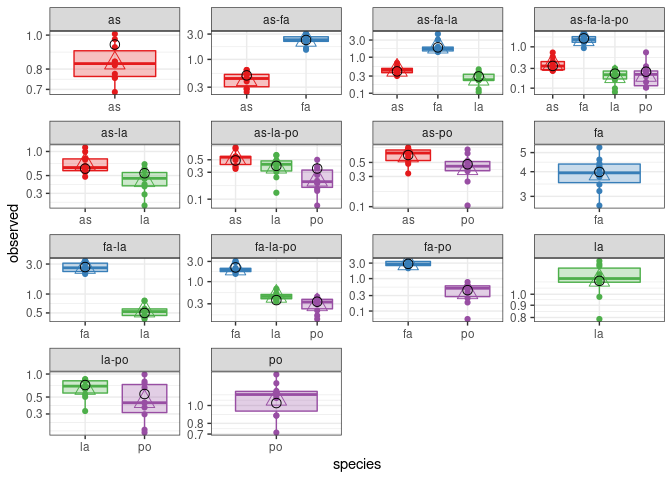
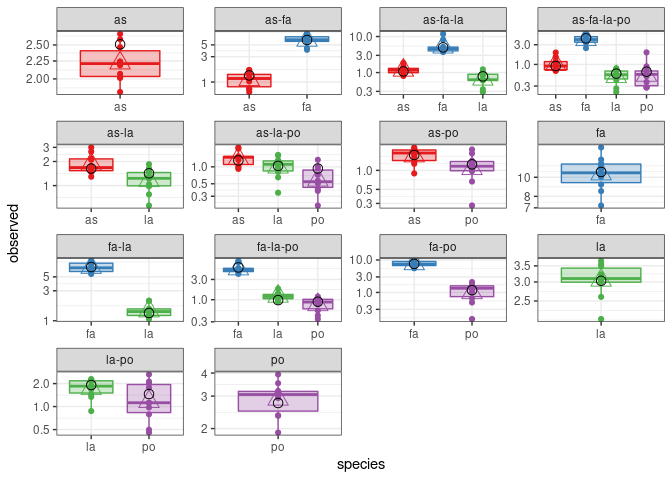
fixed problem with LOO

diff --git a/code/README.md b/code/README.md
@@ -42,38 +42,38 @@ res <- run_model(datafile = "../data/kuebbing_2015_non_natives.csv", # location 
           )
 ```
 
-    ## [1] "iterative step 1 -> 67.0062462911419"
-    ## [1] "iterative step 2 -> 58.1125868909348"
-    ## [1] "iterative step 3 -> 52.831579796576"
-    ## [1] "iterative step 4 -> 48.1614107930199"
-    ## [1] "iterative step 5 -> 43.7510941997679"
-    ## [1] "iterative step 6 -> 40.7931051934239"
-    ## [1] "iterative step 7 -> 38.7693436324155"
-    ## [1] "iterative step 8 -> 37.3940743308755"
-    ## [1] "iterative step 9 -> 36.3404144951679"
-    ## [1] "iterative step 10 -> 35.9586264383472"
-    ## [1] "iterative step 11 -> 34.918386145092"
-    ## [1] "iterative step 12 -> 34.495479516673"
-    ## [1] "iterative step 13 -> 34.0632653666747"
-    ## [1] "iterative step 14 -> 33.7667109953849"
-    ## [1] "iterative step 15 -> 33.3999522502816"
-    ## [1] "iterative step 16 -> 33.23408137218"
-    ## [1] "iterative step 17 -> 32.9573872515676"
-    ## [1] "iterative step 18 -> 32.7704882115572"
-    ## [1] "iterative step 19 -> 32.5549861467456"
-    ## [1] "iterative step 20 -> 32.3779777912159"
-    ## [1] "iterative step 21 -> 32.2017947003788"
-    ## [1] "iterative step 22 -> 32.0677438786954"
-    ## [1] "iterative step 23 -> 32.0020931017848"
-    ## [1] "iterative step 24 -> 31.9375212099102"
-    ## [1] "iterative step 25 -> 31.7738898224771"
+    ## [1] "iterative step 1 -> 990.888949636642"
+    ## [1] "iterative step 2 -> 629.642704358945"
+    ## [1] "iterative step 3 -> 504.921563372439"
+    ## [1] "iterative step 4 -> 418.84452081321"
+    ## [1] "iterative step 5 -> 376.117486397484"
+    ## [1] "iterative step 6 -> 354.227370774127"
+    ## [1] "iterative step 7 -> 335.004319289932"
+    ## [1] "iterative step 8 -> 315.039958827847"
+    ## [1] "iterative step 9 -> 299.682234330772"
+    ## [1] "iterative step 10 -> 287.845924104116"
+    ## [1] "iterative step 11 -> 273.910497474283"
+    ## [1] "iterative step 12 -> 267.045959348568"
+    ## [1] "iterative step 13 -> 263.598770503308"
+    ## [1] "iterative step 14 -> 254.381567707855"
+    ## [1] "iterative step 15 -> 254.27602348795"
+    ## [1] "iterative step 16 -> 248.602828117017"
+    ## [1] "iterative step 17 -> 245.998972247379"
+    ## [1] "iterative step 18 -> 244.141377327376"
+    ## [1] "iterative step 19 -> 240.220213084485"
+    ## [1] "iterative step 20 -> 240.061305491651"
+    ## [1] "iterative step 21 -> 239.159615031142"
+    ## [1] "iterative step 22 -> 237.378566693952"
+    ## [1] "iterative step 23 -> 237.109223060851"
+    ## [1] "iterative step 24 -> 234.948355492571"
+    ## [1] "iterative step 25 -> 234.42701216238"
     ## [1] "numerical search"
-    ## [1] 29.90851
-    ## [1] 29.90851
-    ## [1] 29.90851
-    ## [1] 29.90851
-    ## [1] 29.90851
-    ## [1] 29.90851
+    ## [1] 212.7557
+    ## [1] 212.7556
+    ## [1] 212.7556
+    ## [1] 212.7556
+    ## [1] 212.7556
+    ## [1] 212.7556
 
 ![](README_files/figure-gfm/unnamed-chunk-1-1.png)<!-- -->
 
@@ -95,9 +95,9 @@ str(res)
     ##   ..- attr(*, "dimnames")=List of 2
     ##   .. ..$ : NULL
     ##   .. ..$ : chr [1:4] "as" "fa" "la" "po"
-    ##  $ B            : num [1:4, 1:4] 1.064 0.836 0.867 0.835 0.202 ...
-    ##  $ pars         : num [1:12] 4.4 20.3 4.96 3.1 1.65 ...
-    ##  $ goal_function: num 29.9
+    ##  $ B            : num [1:4, 1:4] 0.3984 0.314 0.3255 0.3134 0.0758 ...
+    ##  $ pars         : num [1:12] 11.95 54.39 13.3 8.3 -1.51 ...
+    ##  $ goal_function: num 213
     ##  $ goal_type    : chr "SSQ"
 
 ## Out-of-fit predictions
